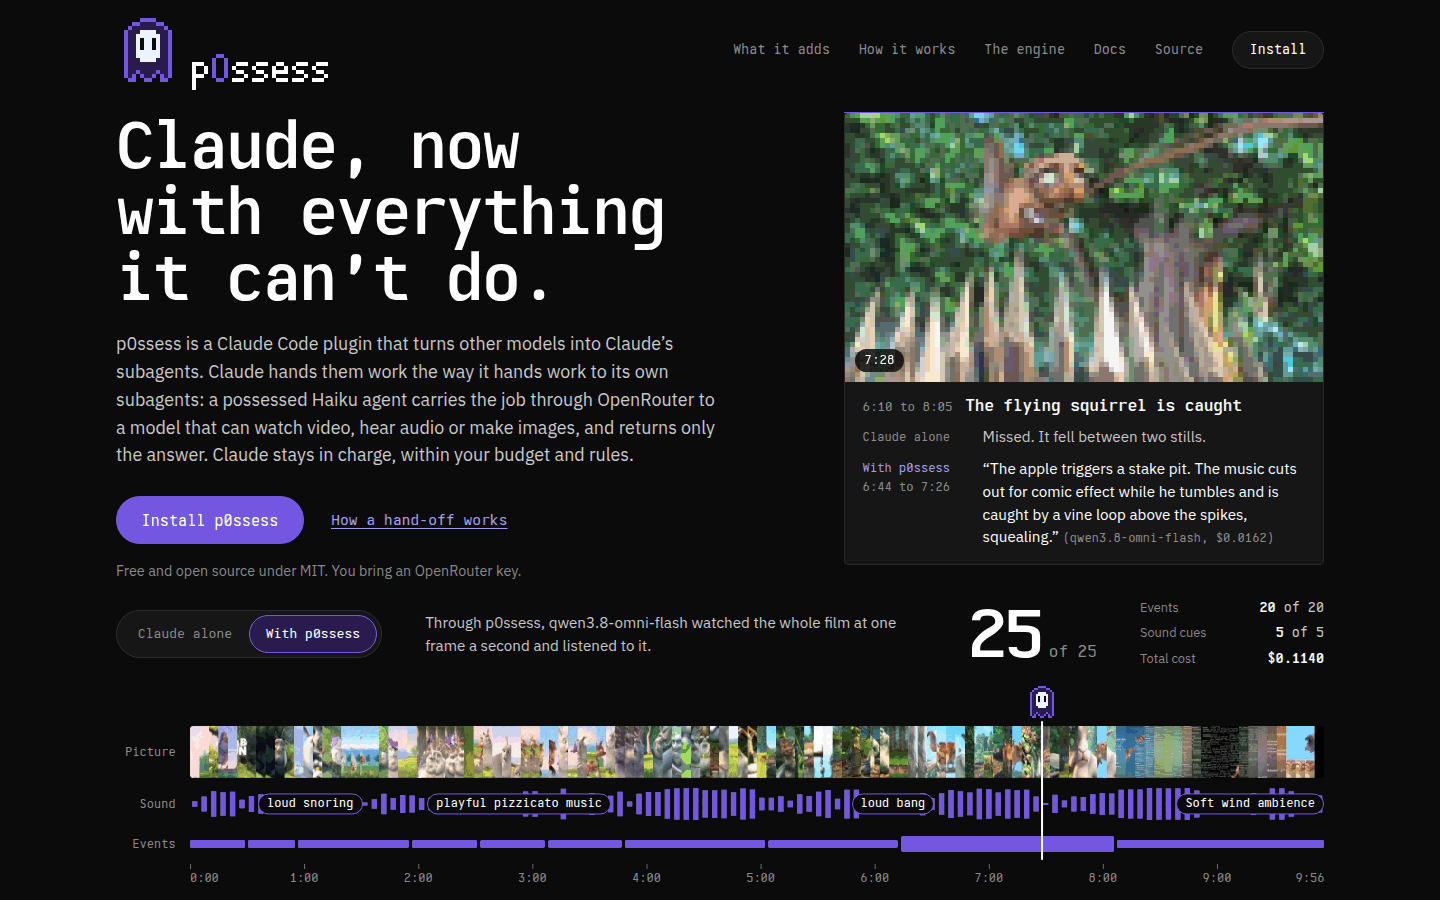
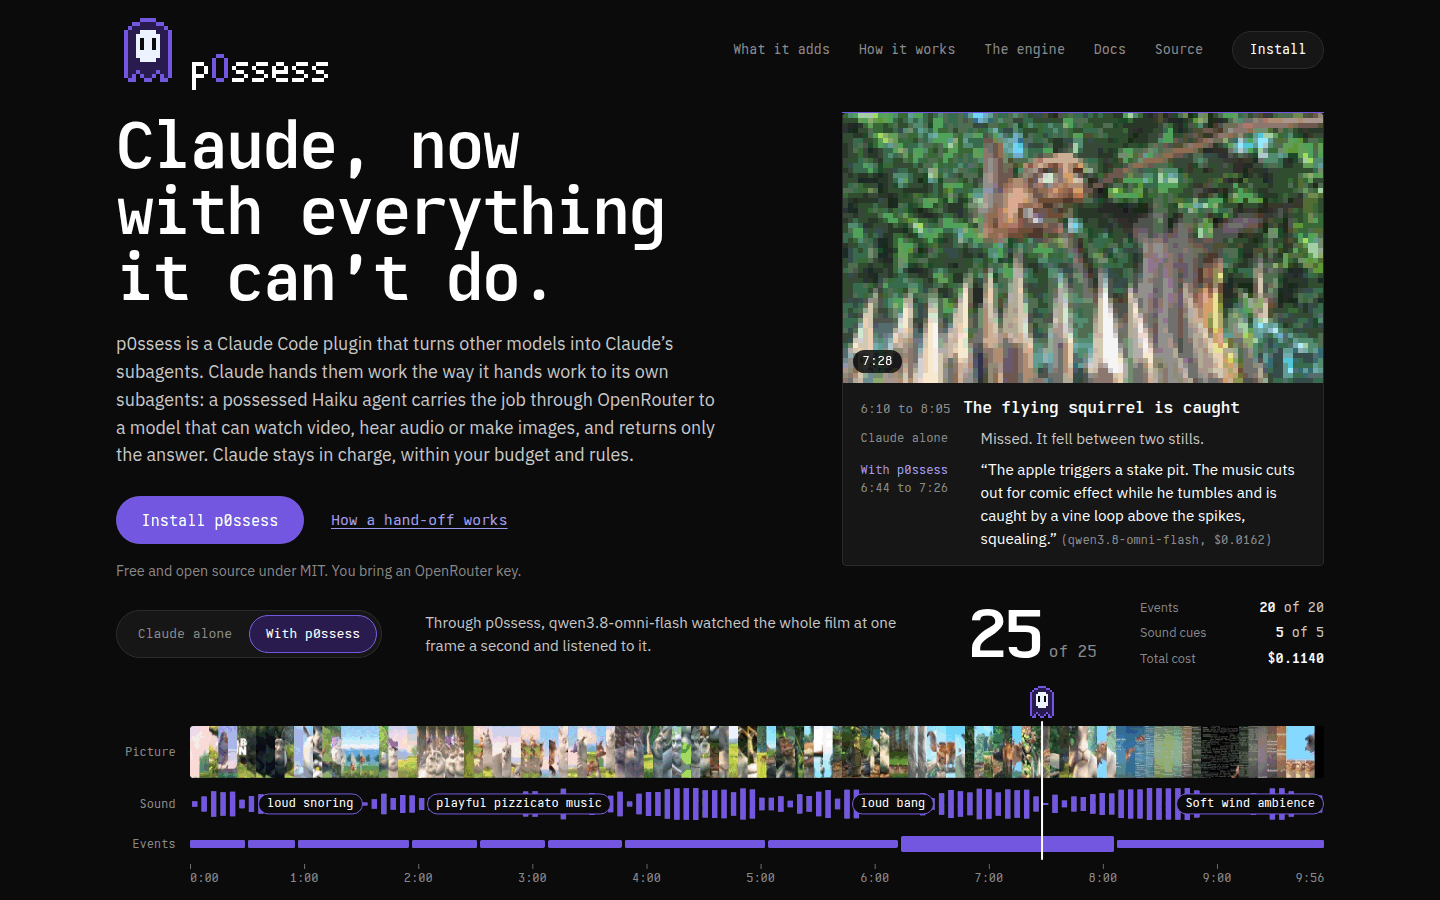
site: the frame at five screen pixels to one, shots and share image retaken

Changed region(s): [[0.5625, 0.1244, 0.9062, 0.6222]]

diff --git a/site/style.css b/site/style.css
@@ -696,7 +696,7 @@ th, td { text-align: left; font-weight: 400; padding: 0; }
 
 @media (min-width: 1024px) {
   .hero-grid {
-    grid-template-columns: minmax(0, 1fr) minmax(0, 480px); column-gap: clamp(40px, 5vw, 88px); row-gap: 1rem;
+    grid-template-columns: minmax(0, 1fr) minmax(0, 482px); column-gap: clamp(40px, 5vw, 88px); row-gap: 1rem;
     grid-template-areas: "pitch screen" "readout readout" "tracks tracks" "note note";
   }
   .pitch { grid-area: pitch; align-self: center; }
